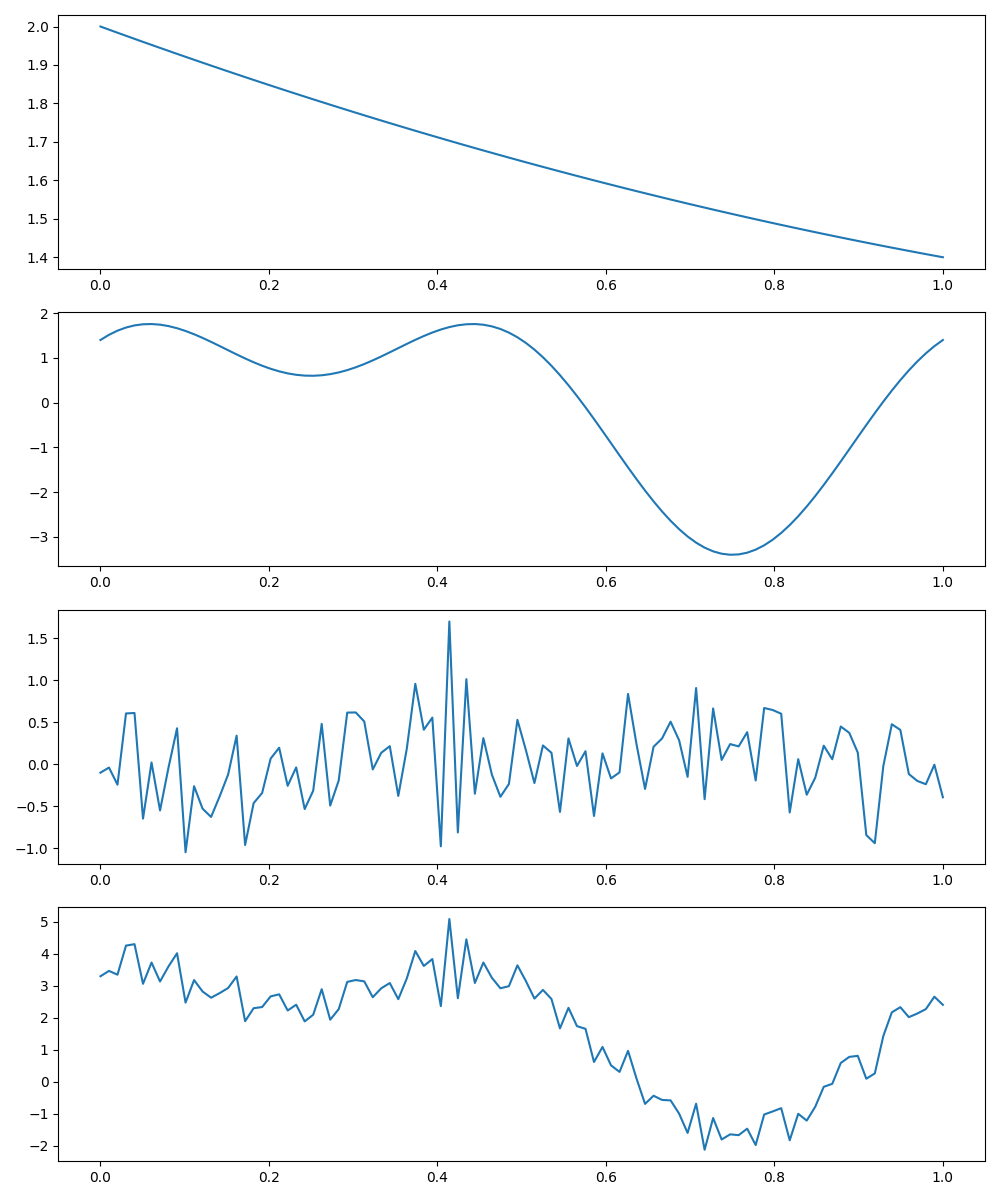
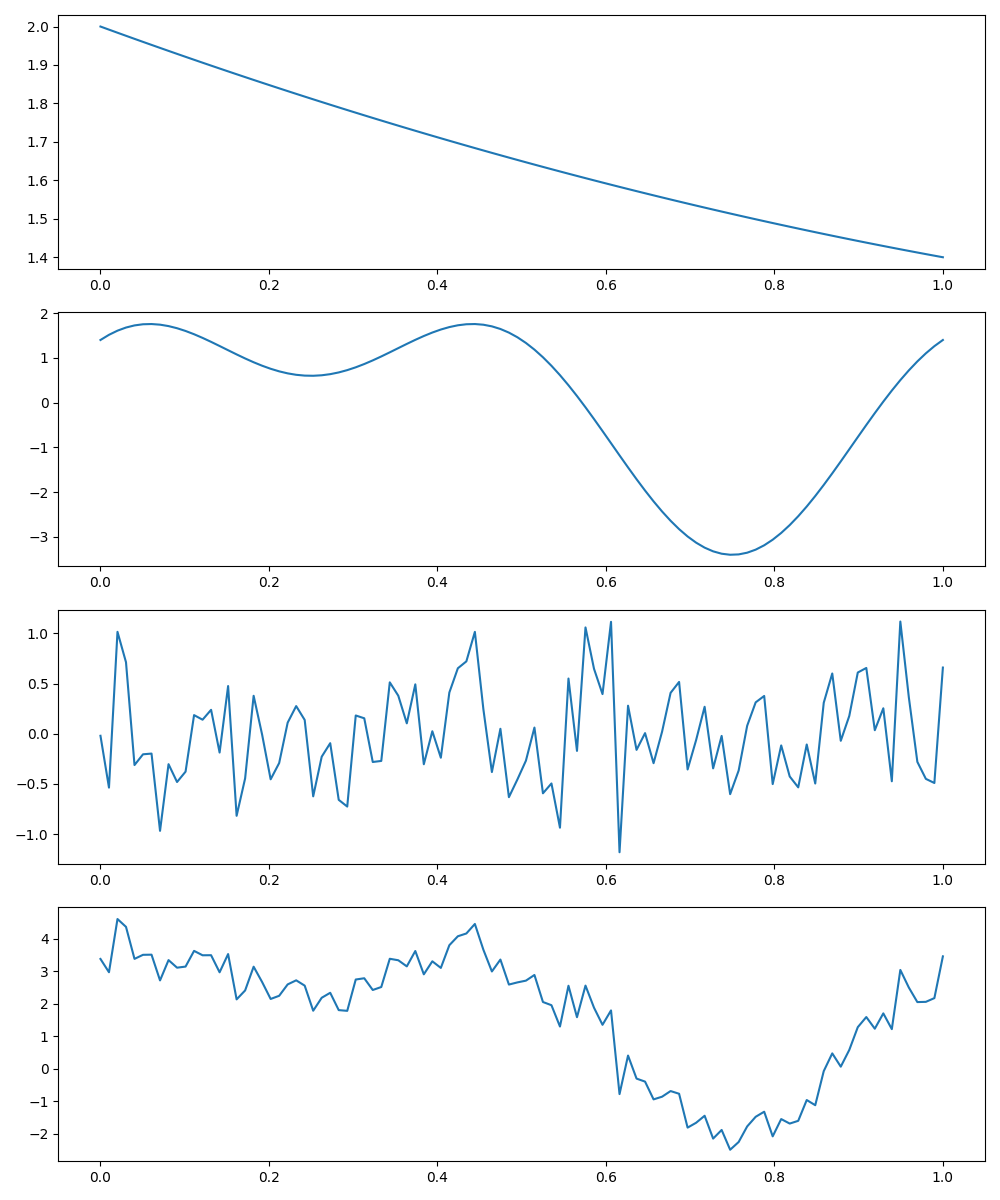
~ update ex 1c

diff --git a/Laborator8/ex1.py b/Laborator8/ex1.py
@@ -34,12 +34,37 @@ plt.savefig("ex1b.png")
 plt.show()
 
 # model AR -- c)
-p = 40
-model = AutoReg(serie, lags=p).fit()
-predict = model.predict(start=p, end=N-1)
+
+# p = 40
+# model = AutoReg(serie, lags=p).fit()
+# predict = model.predict(start=p, end=N-1)
+#
+# plt.figure()
+# plt.plot(t[p:], predict)
+# plt.grid()
+# plt.savefig("ex1c.png")
+# plt.show()
+
+p = 10
+
+# construire matrice X (val trecute) si Y ( val actuale )
+X = np.zeros((N - p, p))
+y = serie[p:]
+
+for i in range(p):
+    X[:, i] = serie[p - i - 1:N - i - 1]
+
+# calculare coef prin metoda celor mai mici patrate
+phi = np.linalg.inv(X.T @ X) @ X.T @ y
+
+# generare predictii
+y_pred = X @ phi
+
+# refacere serie completa
+predict = np.concatenate([serie[:p], y_pred])
 
 plt.figure()
-plt.plot(t[p:], predict)
+plt.plot(t, predict)
 plt.grid()
 plt.savefig("ex1c.png")
 plt.show()
